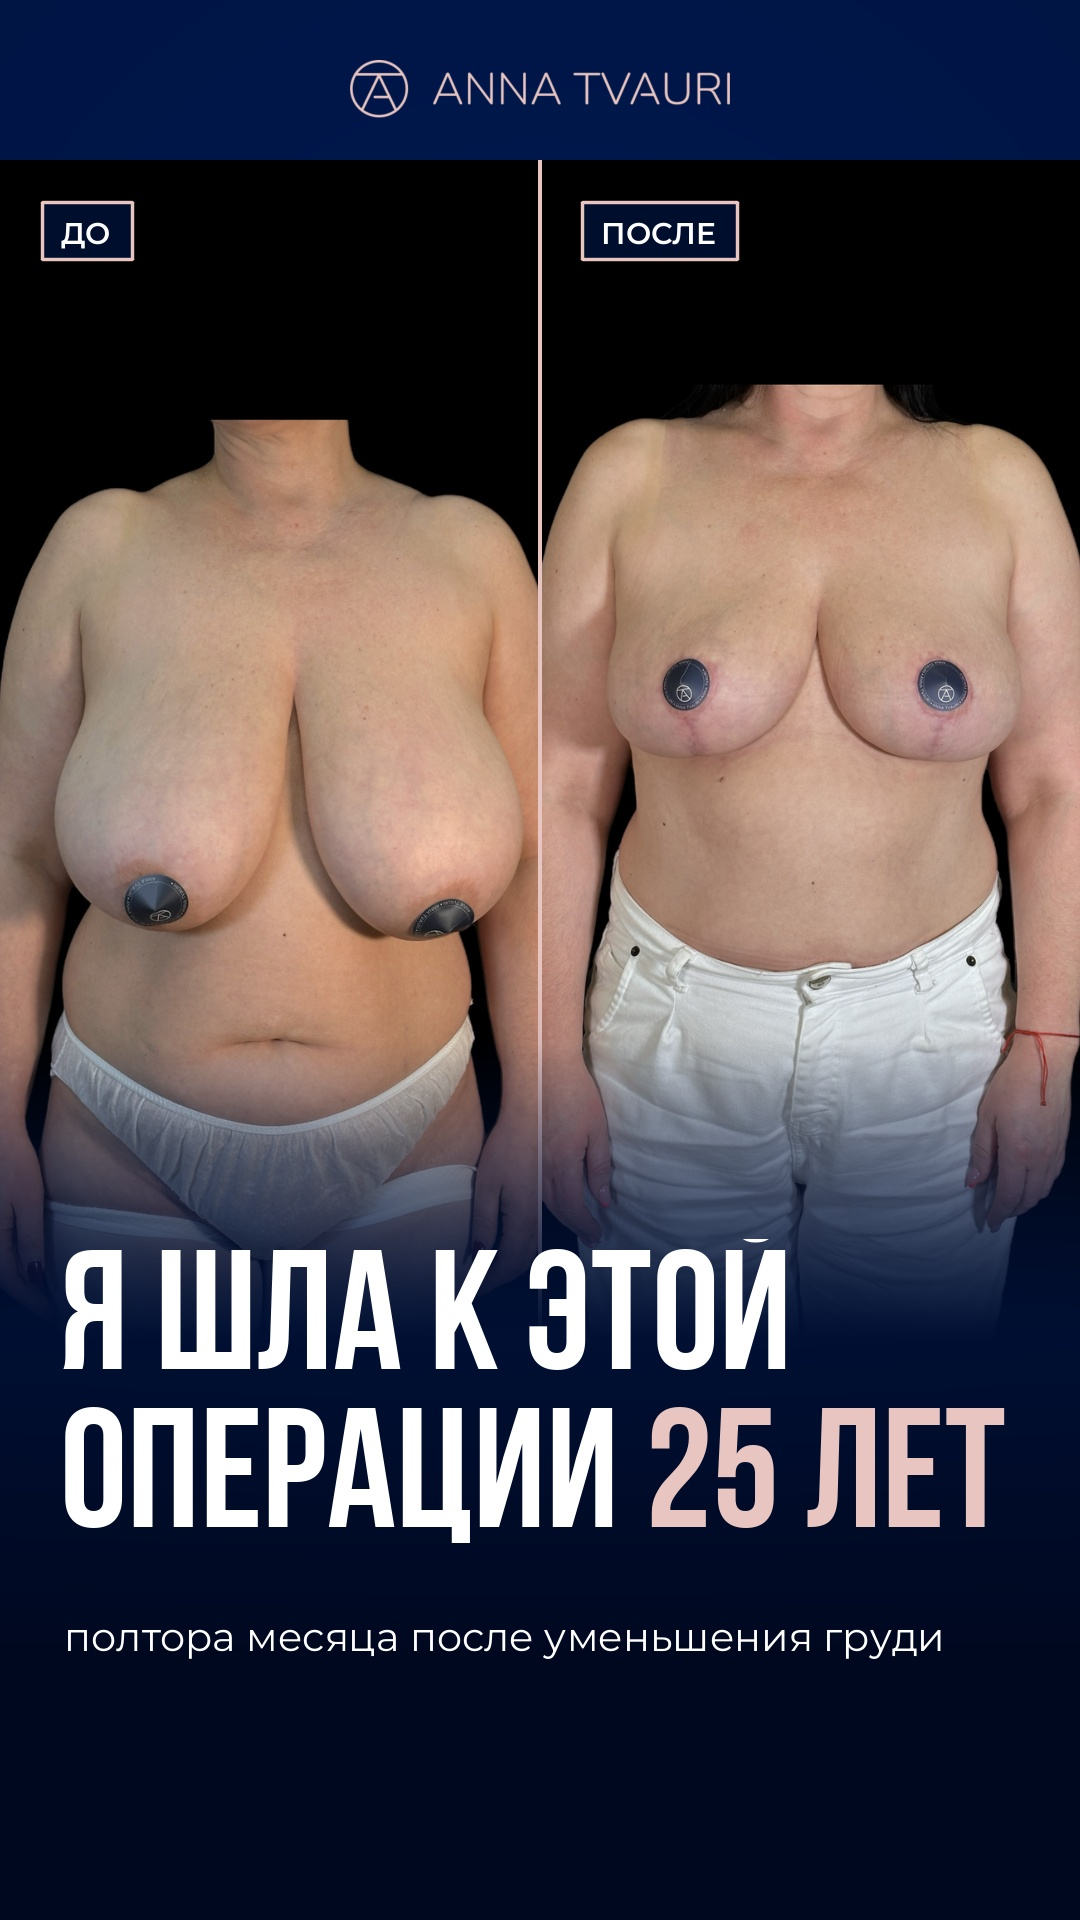
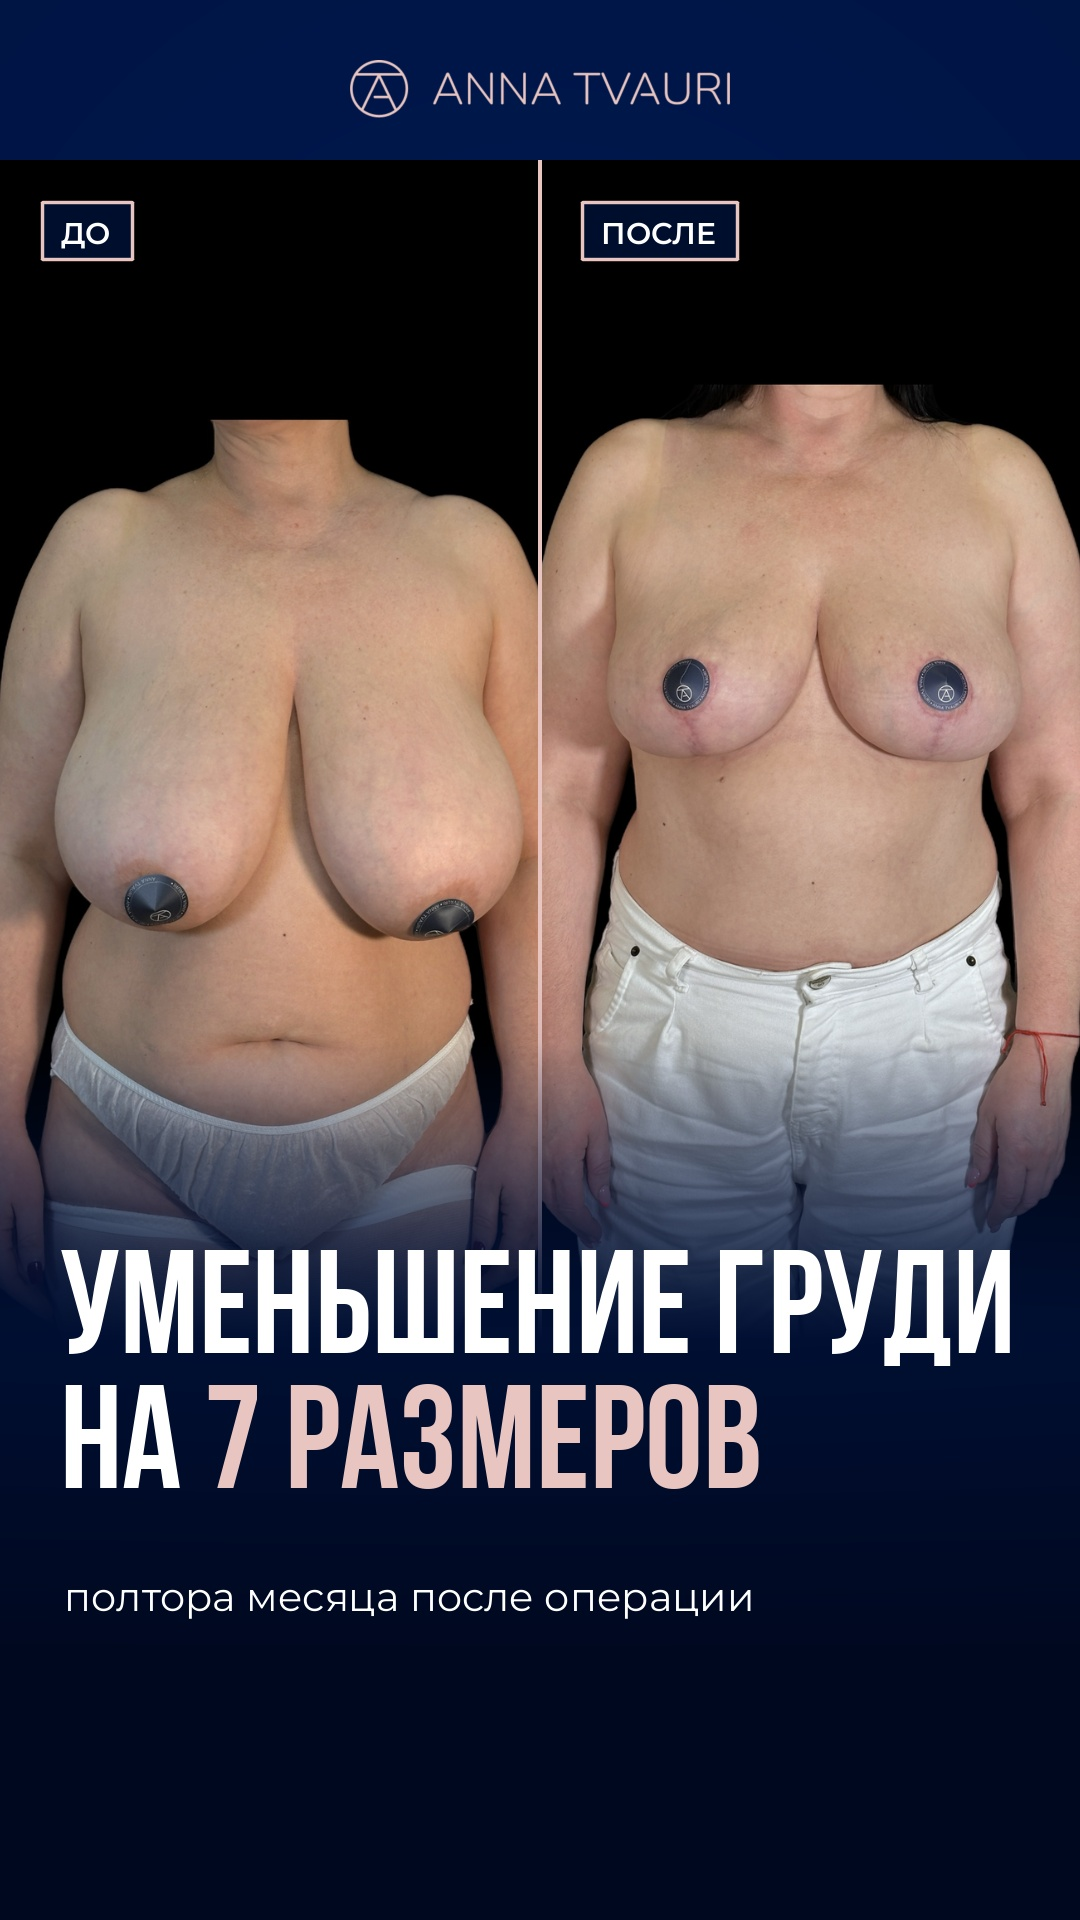
Reduction reel: headline «Уменьшение груди на 7 размеров» (video + cover), full-screen ДО/ПОСЛЕ slider at 4 s
Claude-Session: https://claude.ai/code/session_01PotVFxhwJhJxfUVgu7Et5P

Changed region(s): [[0.0611, 0.625, 0.9472, 0.875]]

diff --git a/tools/reel_reduction.py b/tools/reel_reduction.py
@@ -1,5 +1,5 @@
 #!/usr/bin/env python3
-"""Reels «Я шла к этой операции 25 лет» — редукционная маммопластика, Анна Тваури.
+"""Reels «Уменьшение груди на 7 размеров» — редукционная маммопластика, Анна Тваури.
 
 Same brand system as tools/reel_postpartum.py (navy #00123A, powder pink, Bebas Neue + Montserrat, notched frame,
 logo outro), but a different edit: zoom-out reveals, flash freeze-frames, an iris reveal into ПОСЛЕ, a diagonal
@@ -262,32 +262,33 @@ def card(fr, img, box, nw, nh, p_in, t_line_p, dx=0, dy=0, fx=0.5, fy=0.45, z=1.
     path_draw(fr, notch_poly(x0, y0, x1, y1, nw, nh, 12), t_line_p, WHITE, 2, True)
 
 # ---------------- scenes ----------------
-# P1 — mirror, ДО. zoom-out reveal from the reflection; letters drop; 25 counts up over a 25-tick ruler
-H1 = Drop(["Я ШЛА К ЭТОЙ ОПЕРАЦИИ"], 104, 70, 1060)
+# P1 — mirror, ДО. zoom-out reveal from the reflection; letters drop; «7» counts up over a 7-step ruler
+H1 = Drop(["УМЕНЬШЕНИЕ ГРУДИ"], 132, 70, 1040)
 T1 = Track(["редукционная маммопластика"], 36, 72, 0)
-NY = 1205                                                              # cap line of the big «25»
-def ruler(fr, t, t0, x0=70, y0=1520, w=900):
-    n = 25; p = (t - t0) / 1.6
+NY = 1215                                                              # cap line of the big «7»
+def ruler(fr, t, t0, x0=70, y0=1520, w=900, n=7):
+    p = (t - t0) / 1.2
     for i in range(n):
-        pi = eo((p * n - i) / 2)
+        pi = eo((p * n - i) / 1.5)
         if pi <= 0: break
-        x = x0 + w * i / (n - 1); hh = (34 if i % 5 == 4 or i == 0 else 18) * pi
-        bar = np.ones((max(1, int(hh)), 3), np.float32); blend(fr, bar, x - 1, y0 - hh, PINK if i == n - 1 else WHITE, 0.9)
-    path_draw(fr, [(x0, y0 + 4), (x0 + w, y0 + 4)], eo((t - t0) / 1.6), WHITE, 2, op=0.5)
+        x = x0 + w * i / (n - 1); hh = 34 * pi
+        bar = np.ones((max(1, int(hh)), 4), np.float32); blend(fr, bar, x - 2, y0 - hh, PINK if i == n - 1 else WHITE, 0.9)
+    path_draw(fr, [(x0, y0 + 4), (x0 + w, y0 + 4)], eo((t - t0) / 1.2), WHITE, 2, op=0.5)
 def s_p1(t):
     z = lerp(1.55, 1.04, eio(t / 3.2)); fr = full(V["3406"].at(0.6 + t * 0.85), 0.7, 0.32, z); shade(fr, VIG); shade(fr, GBOT)
     H1.draw(fr, t, 0.0)
-    n = int(round(lerp(1, 25, eio((t - 0.45) / 1.6))))
     if t > 0.45:
-        a = alpha_img(str(n), bebas(330)); blend(fr, a, 66, NY - cap_top(bebas(330)), PINK, eo((t - 0.45) / 0.3))
-        b = alpha_img("ЛЕТ", bebas(150)); blend(fr, b, 66 + alpha_img("25", bebas(330)).shape[1] + 10, NY + 330 * 0.72 - 150 * 0.72 - cap_top(bebas(150)), WHITE, eo((t - 1.6) / 0.4))
-    ruler(fr, t, 0.5, y0=NY + 330 * 0.72 + 45)
+        na = alpha_img("НА", bebas(150)); y_small = NY + 330 * 0.72 - 150 * 0.72 - cap_top(bebas(150))
+        blend(fr, na, 66, y_small, WHITE, eo((t - 0.45) / 0.3)); x7 = 66 + na.shape[1] + 6
+        n = int(round(lerp(1, 7, eio((t - 0.55) / 1.2))))
+        a = alpha_img(str(n), bebas(330)); blend(fr, a, x7, NY - cap_top(bebas(330)), PINK, eo((t - 0.55) / 0.3))
+        b = alpha_img("РАЗМЕРОВ", bebas(150)); blend(fr, b, x7 + alpha_img("7", bebas(330)).shape[1] + 14, y_small, WHITE, eo((t - 1.5) / 0.4))
+    ruler(fr, t, 0.55, y0=NY + 330 * 0.72 + 45)
     T1.y = NY + 330 * 0.72 + 125; T1.draw(fr, t, 1.3)
     return fr
 
-# P2 — two ДО cards (profile + front) slide in; heartbeat line turns into a check mark on «решилась»
+# P2 — full-screen ДО/ПОСЛЕ slider (front photos); heartbeat line turns into a check mark on «решилась»
 H2 = Drop(["25 ЛЕТ ХОТЕЛА", "*И ВСЁ РАВНО БОЯЛАСЬ*"], 112, 70, 1270)
-CL, CR = (60, 250, 530, 1150), (550, 250, 1020, 1150)
 T_DECIDE = vstart("P2") + (17.46 - 15.58)                              # «…решилась»
 def ecg(fr, t, t0, y=1600):
     xs = np.linspace(70, 1010, 120); base = []
@@ -303,12 +304,17 @@ def ecg(fr, t, t0, y=1600):
         c = (540, y); pc = eio((t - T_DECIDE) / 0.35)
         path_draw(fr, [(c[0] + 48 * np.cos(a), c[1] + 48 * np.sin(a)) for a in np.linspace(-np.pi / 2, 1.5 * np.pi, 50)], pc, PINK, 4)
         path_draw(fr, [(c[0] - 22, c[1] + 2), (c[0] - 6, c[1] + 18), (c[0] + 24, c[1] - 16)], eo((t - T_DECIDE - 0.25) / 0.3), PINK, 6)
+def slider_x(lt): return W * (1 - 0.5 * eio((lt - 0.35) / 0.8) - 0.5 * eio((lt - 1.9) / 0.8))   # ДО -> half/half -> ПОСЛЕ
 def s_p2(t):
-    lt = t - T_P2; fr = BG.copy()
-    for k, (box, img, nt, fy) in enumerate([(CL, PB["s"], 1, 0.4), (CR, PB["f"], 0, 0.4)]):
-        p = eo((lt - 0.1 - 0.12 * k) / 0.5); dy = (1 - p) * (-180 if k == 0 else 180)
-        card(fr, img, box, 110 * nt, 140 * nt, p, eio((lt - 0.4 - 0.12 * k) / 0.8), 0, dy, 0.5, fy, 1.05 + 0.03 * lt)
-        chip(fr, "ДО", box[0] + 18, box[3] - 78, eo((lt - 0.7 - 0.12 * k) / 0.3))
+    lt = t - T_P2; z = 1.0 + 0.03 * eio(lt / 3.2)
+    b = full(PB["f"], 0.5, 0.38, z); a = full(PA["f"], 0.5, 0.38, z); xd = int(slider_x(lt))
+    fr = b.copy(); fr[:, xd:] = a[:, xd:]; shade(fr, GBOT)
+    if 0 < xd < W:
+        fr[:, max(0, xd - 2):xd + 2] = PINK
+        m = np.zeros((H, W), np.uint8); cv2.circle(m, (xd, 760), 32, 255, -1, cv2.LINE_AA); blend(fr, m.astype(np.float32) / 255, 0, 0, PINK)
+        ar = alpha_img("‹ ›", mont(36, 600)); blend(fr, ar, xd - ar.shape[1] / 2, 760 - ar.shape[0] / 2 - 2, NAVY)
+    chip(fr, "ДО", 40, 250, eo((lt - 0.15) / 0.3) * cl((xd - 160) / 120))
+    chip(fr, "ПОСЛЕ", 875, 250, cl((W - 200 - xd) / 120))
     H2.draw(fr, t, T_P2 + 0.35); ecg(fr, t, T_P2 + 0.8)
     return fr
 
@@ -512,9 +518,10 @@ def build_audio(path):
     def put(x, t, g): i = int(max(0, t) * SR); seg = sfx[i:i + len(x)]; seg += x[:len(seg)] * g
     WH = whoosh(); WS = whoosh(0.4, 700, 8000)
     put(boom(), 0.0, 0.45)                                               # opening hit
-    for k in range(24): put(tick(), 0.45 + 1.6 * eio(k / 24), 0.12)      # the counter
+    for k in range(6): put(tick(), 0.55 + 1.2 * eio((k + 1) / 7), 0.16)  # the counter
     put(chime(), 2.1, 0.1)
-    put(flash_hit(), T_P2 - 0.02, 0.4); put(WS, T_P2 + 0.05, 0.22)
+    put(flash_hit(), T_P2 - 0.02, 0.4)
+    for ts in (0.35, 1.9): put(WS, T_P2 + ts, 0.24)                          # slider moves
     put(heartbeat(), T_P2 + 1.0, 0.5); put(heartbeat(), T_P2 + 1.85, 0.4); put(pop(1300, 600), T_DECIDE + 0.25, 0.25)
     put(riser(), T_R - 1.1, 0.12); put(WH, T_R - 0.1, 0.32); put(boom(0.6), T_R - 0.03, 0.22)
     for i in range(5): put(pop(900 + 150 * i, 400), T_OK - 0.05 + i * 0.12, 0.12)
@@ -543,8 +550,8 @@ def make_cover(path):
     fr[160:160 + h2, 538:542] = PINK
     m = np.clip((yy[:, :1] - (160 + h2 - 300)) / 300, 0, 1)[..., None]; fr = fr * (1 - m) + BG * m; shade(fr, GBOT)
     chip(fr, "ДО", 40, 200); chip(fr, "ПОСЛЕ", 580, 200)
-    hd = Drop(["Я ШЛА К ЭТОЙ", "ОПЕРАЦИИ *25 ЛЕТ*"], 170, 60, 1250, maxw=960); hd.draw(fr, 99, 0)
-    ty = Track(["полтора месяца после уменьшения груди"], 40, 64, 0, 400); ty.y = 1250 + hd.h + 80 + ty.top; ty.draw(fr, 99, 0)
+    hd = Drop(["УМЕНЬШЕНИЕ ГРУДИ", "НА *7 РАЗМЕРОВ*"], 170, 60, 1250, maxw=960); hd.draw(fr, 99, 0)
+    ty = Track(["полтора месяца после операции"], 40, 64, 0, 400); ty.y = 1250 + hd.h + 80 + ty.top; ty.draw(fr, 99, 0)
     lg = logo_alpha(380); blend(fr, lg, 540 - 190, 60, PINK)
     cv2.imwrite(path, cv2.cvtColor((np.clip(fr, 0, 1) * 255).astype(np.uint8), cv2.COLOR_RGB2BGR), [cv2.IMWRITE_JPEG_QUALITY, 95])
 
